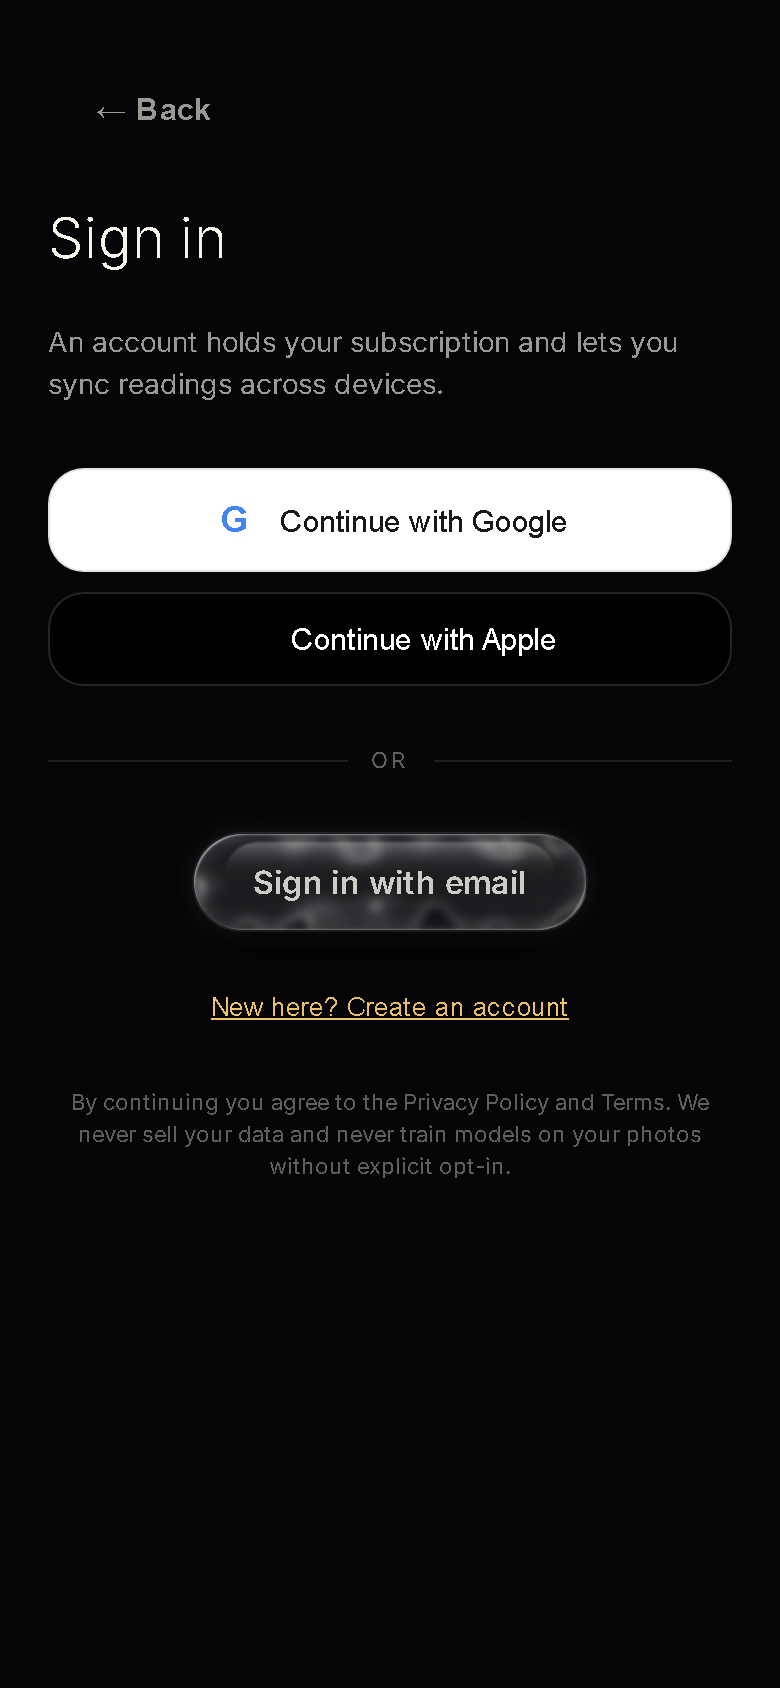
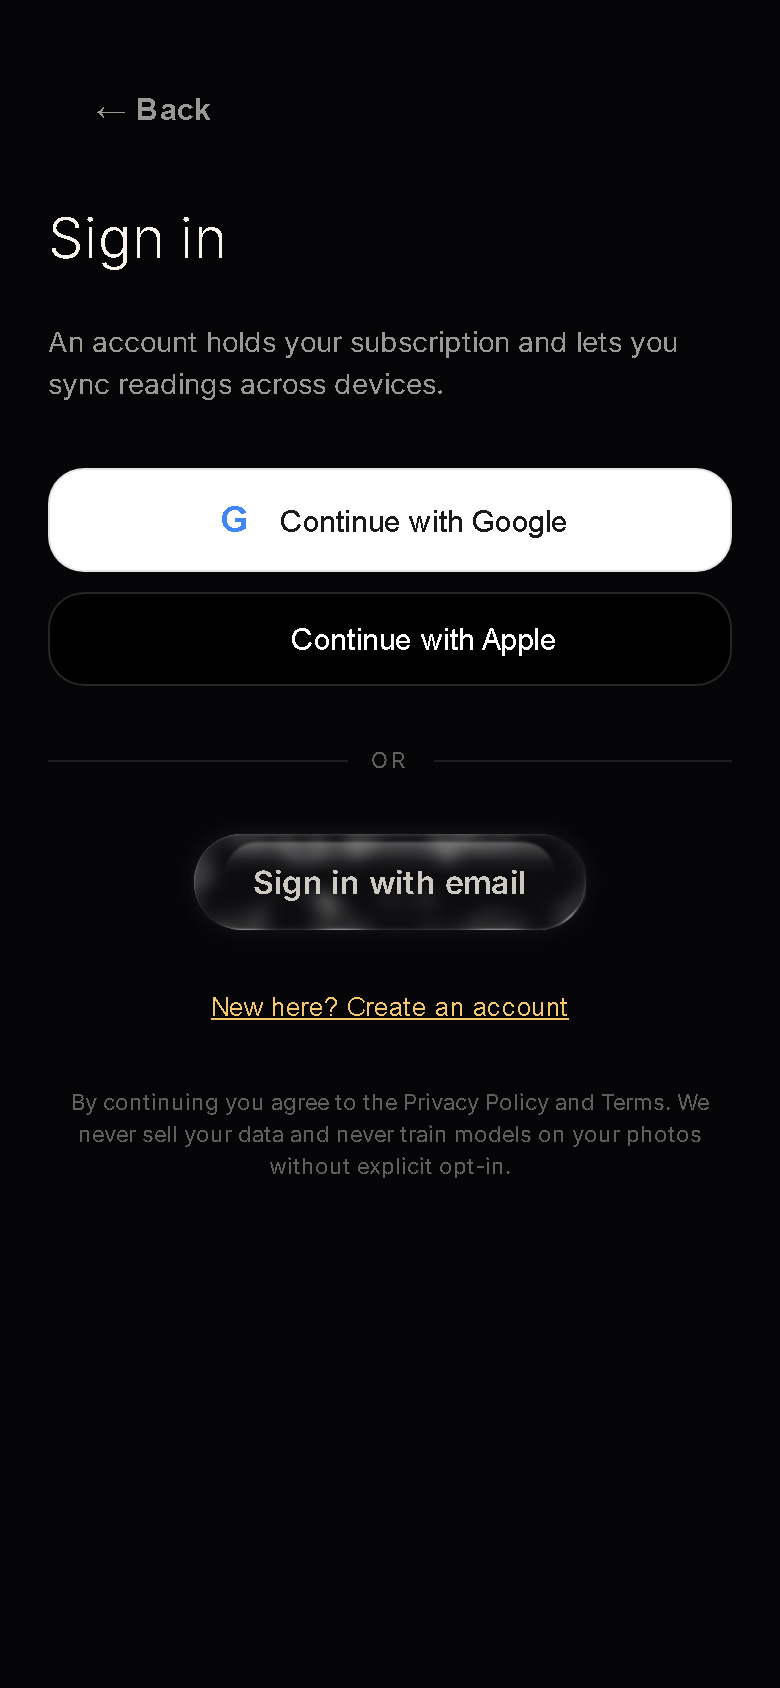
Fix smoke-pill buttons: SVG displacement 70→18, blur 4→1, max-width 320px, overflow hidden, controlled padding

Changed region(s): [[0.3385, 0.4929, 0.5846, 0.5545], [0.6154, 0.4929, 0.7692, 0.5545], [0.2462, 0.4929, 0.2769, 0.5545]]

diff --git a/components/PremiumButton.tsx b/components/PremiumButton.tsx
@@ -572,33 +572,41 @@ const AURALENS_LIQUID_CSS = `
   cursor: pointer;
   font: inherit;
   z-index: 1;
-  /* Outer "liquidbuttonVariants" base — scale on hover, transition. */
+  /* Hard cap so the button never sprawls on desktop. Mobile callers
+     can opt into fullWidth which removes the cap via inline style. */
+  max-width: 320px;
+  isolation: isolate;
   transition: transform 300ms ease;
 }
-.auralens-liquid:hover { transform: scale(1.05); }
+.auralens-liquid:hover { transform: translateY(-1px); }
 
-/* === EXACT shadow stack from reference (dark mode) ===================== */
+/* === Controlled liquid glass face — production sizing ================= */
 .auralens-liquid__face {
   --ink: rgba(247, 243, 234, 0.95);
-  --tint: transparent;
-  --tint-hover: rgba(255, 255, 255, 0.05);
+  --tint: rgba(255, 255, 255, 0.03);
+  --tint-hover: rgba(255, 255, 255, 0.07);
   --glow: rgba(0, 0, 0, 0.15);
 
   position: relative;
   display: inline-flex;
   align-items: center;
   justify-content: center;
-  gap: 12px;
+  gap: 10px;
   border-radius: 999px;
-  padding: 18px 38px;
+  /* CONTROLLED size — 56px tall default, 32px horizontal padding */
+  min-height: 56px;
+  padding: 14px 32px;
   color: var(--ink);
   font-family: 'Inter', system-ui, sans-serif;
   font-weight: 600;
+  font-size: 15px;
   letter-spacing: 0.2px;
   white-space: nowrap;
   background: var(--tint);
   isolation: isolate;
-  transition: background-color 280ms ease, box-shadow 280ms ease;
+  /* HARD CONTAINMENT so SVG filter + pseudo elements stay inside */
+  overflow: hidden;
+  transition: background-color 280ms ease, box-shadow 280ms ease, transform 240ms ease;
   /* EXACT reference: 0 0 8px rgba(0,0,0,0.03), 0 2px 6px rgba(0,0,0,0.08),
      inset 3px 3px 0.5px -3.5px rgba(255,255,255,0.09),
      inset -3px -3px 0.5px -3.5px rgba(255,255,255,0.85),
@@ -702,9 +710,6 @@ const AURALENS_LIQUID_CSS = `
   --tint: rgba(255, 255, 255, 0.03);
   --tint-hover: rgba(255, 255, 255, 0.08);
   --glow: rgba(255, 255, 255, 0.10);
-  --inner-1: rgba(255, 255, 255, 0.18);
-  --inner-2: rgba(255, 255, 255, 0.10);
-  padding: 14px 30px;
 }
 .auralens-liquid--danger .auralens-liquid__face {
   --ink: rgba(255, 220, 215, 0.95);
@@ -713,9 +718,17 @@ const AURALENS_LIQUID_CSS = `
   --glow: rgba(229, 89, 78, 0.45);
 }
 
-/* Sizes */
-.auralens-liquid--sm .auralens-liquid__face { padding: 10px 22px; font-size: 13px; }
-.auralens-liquid--lg .auralens-liquid__face { padding: 20px 42px; font-size: 17px; }
+/* Sizes — production caps so buttons never read as oversized */
+.auralens-liquid--sm .auralens-liquid__face {
+  min-height: 44px; padding: 10px 22px; font-size: 13px;
+}
+.auralens-liquid--lg .auralens-liquid__face {
+  min-height: 62px; padding: 18px 38px; font-size: 16px;
+}
+/* Ghost is quieter so it doesn't read as primary */
+.auralens-liquid--ghost .auralens-liquid__face {
+  min-height: 52px; padding: 12px 26px; font-size: 14px;
+}
 `;
 
 // SVG turbulence + displacement filter, attached once to the DOM. The
@@ -729,8 +742,10 @@ const AURALENS_GLASS_SVG = `
     <filter id="container-glass" x="0%" y="0%" width="100%" height="100%" color-interpolation-filters="sRGB">
       <feTurbulence type="fractalNoise" baseFrequency="0.05 0.05" numOctaves="1" seed="1" result="turbulence" />
       <feGaussianBlur in="turbulence" stdDeviation="2" result="blurredNoise" />
-      <feDisplacementMap in="SourceGraphic" in2="blurredNoise" scale="70" xChannelSelector="R" yChannelSelector="B" result="displaced" />
-      <feGaussianBlur in="displaced" stdDeviation="4" result="finalBlur" />
+      <!-- scale was 70 (made buttons look like smoke). Controlled at 18 -->
+      <feDisplacementMap in="SourceGraphic" in2="blurredNoise" scale="18" xChannelSelector="R" yChannelSelector="B" result="displaced" />
+      <!-- final blur reduced from 4 to 1 so glass distortion is felt, not smeared -->
+      <feGaussianBlur in="displaced" stdDeviation="1" result="finalBlur" />
       <feComposite in="finalBlur" in2="finalBlur" operator="over" />
     </filter>
   </defs>
